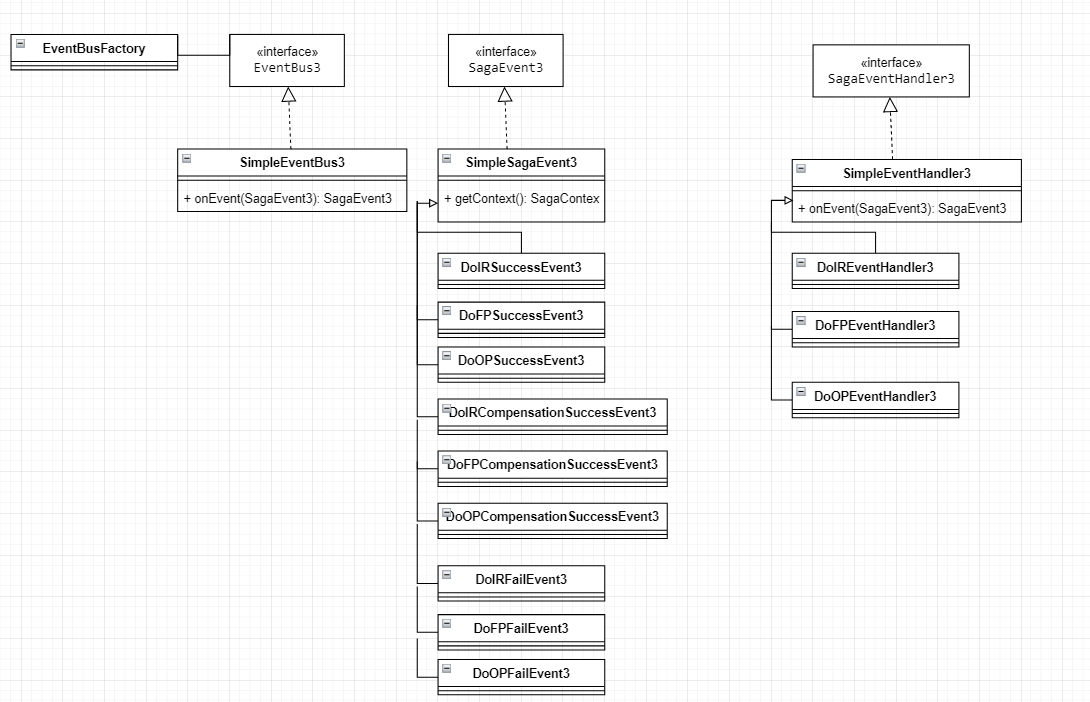
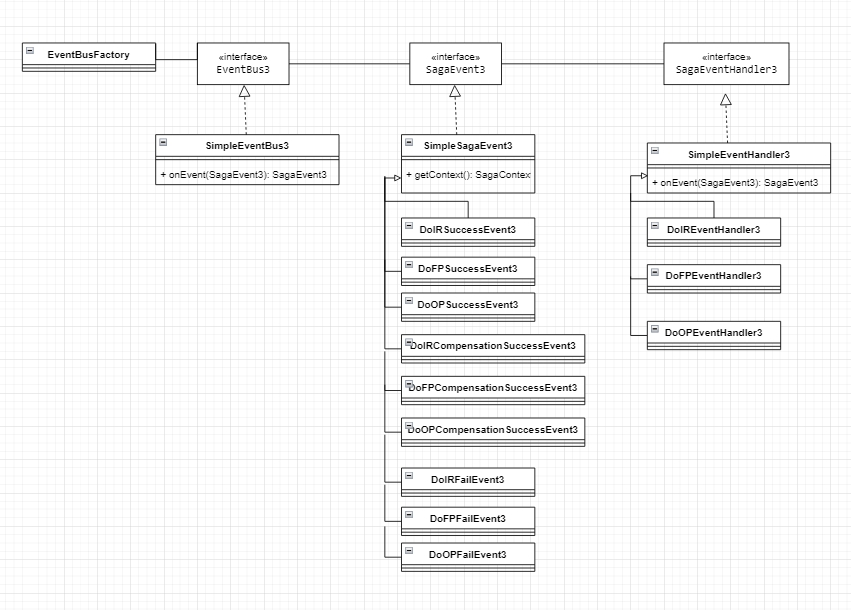
add V3 State Diagram

Changed region(s): [[0.1528, 0.1869, 0.9777, 0.9967], [0.0, 0.0311, 0.9166, 0.1557]]

diff --git a/README.md b/README.md
@@ -1,5 +1,9 @@
 # sagasample
+//=========================================
+
 saga1:Command Mode
+
+//=========================================
 
 sgag2: eventModel_orchestration_diagram
 Class Diagram:
@@ -8,6 +12,13 @@ Class Diagram:
 SequenceDiagram:
 ![image](./src/main/resources/static/SequenceDiagram.jpg)
 
+//=========================================
+
 saga3:state_pattern + EventBus
 Class Diagram:
 ![image](./src/main/resources/static/V3_EventBus.jpg)
+
+State Diagram:
+![image](./src/main/resources/static/V3_StateDiagram.jpg)
+
+//=========================================
